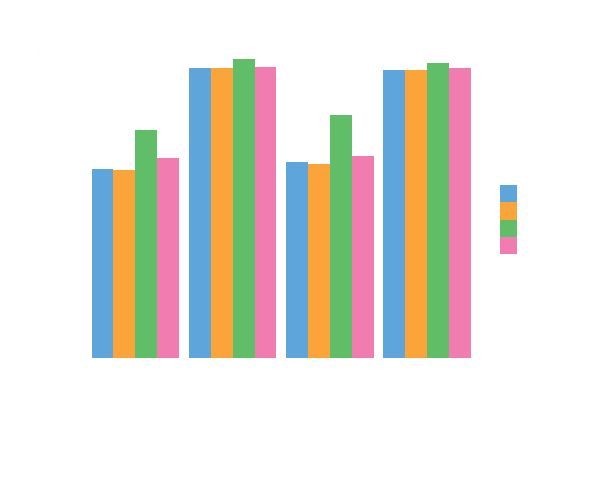
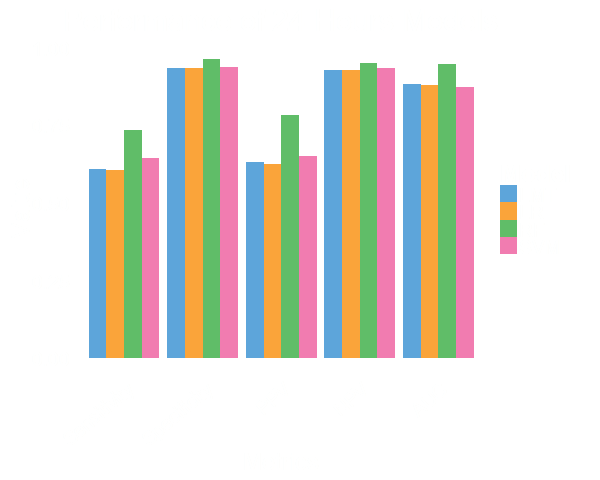
add test plots, add perfomance background

Changed region(s): [[0.15, 0.125, 0.81, 0.75]]

diff --git a/index.html b/index.html
@@ -187,20 +187,24 @@
 					</section>
 				</section>
 				<section>
-					<section data-state="performance1" data-background="assets/metrics_24hours.png">
+					<section data-state="performance1" data-background-image="assets/perform.gif">
 						<div style="width: 600px; margin: 0 auto 0 auto">
-							<div id="chart1">
-							</div>
+							<h2>Performance</h2>
 						</div>
 					</section>
 					<section data-state="performance2">
 						<div style="width: 600px; margin: 0 auto 0 auto">
-							<img width="600px" height="480px" data-src="assets/test_lmt.png">
+							<img width="600px" height="480px" data-src="assets/test_lr.png">
 						</div>
 					</section>
 					<section data-state="performance3">
 						<div style="width: 600px; margin: 0 auto 0 auto">
 							<img width="600px" height="480px" data-src="assets/test_svm.png">
+						</div>
+					</section>
+					<section data-state="performance4">
+						<div style="width: 600px; margin: 0 auto 0 auto">
+							<img width="600px" height="480px" data-src="assets/test_lmt.png">
 						</div>
 					</section>
 					<section data-state="performance-24">
